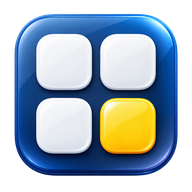
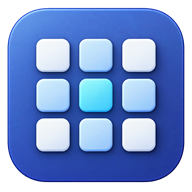
更新[启动台]、[任务管理器]、[事件与告警中心]图标。 macOS 启动台展开时隐藏下方桌面，关闭后恢复；名称增加阴影，Dock 保持可操作。

diff --git a/Client/RelaxKonOS.Client/Views/Shell/LauncherDesktopShells.cs b/Client/RelaxKonOS.Client/Views/Shell/LauncherDesktopShells.cs
@@ -713,7 +713,11 @@ public sealed class MacosLikeDesktopShell() : LauncherDesktopShellBase(BuiltInSh
     protected override void BuildLayout(DesktopShellViewModel vm)
     {
         var layout = new MacosShellLayoutView();
-        layout.Compose(MacosMenuBar(vm), Desktop(vm), MacosDock(vm), MacosLaunchpad(vm));
+        var desktop = Desktop(vm);
+        // Launchpad replaces the desktop presentation without closing its windows or changing
+        // the user's icon visibility preference. Hiding the surface also prevents click-through.
+        desktop.Bind(Visual.IsVisibleProperty, new Binding("!" + nameof(vm.IsStartOpen)));
+        layout.Compose(MacosMenuBar(vm), desktop, MacosDock(vm), MacosLaunchpad(vm));
         _root.Children.Add(layout);
     }
 
@@ -821,6 +825,7 @@ public sealed class MacosLikeDesktopShell() : LauncherDesktopShellBase(BuiltInSh
         ThemeResources.Bind(overlay, Border.BackgroundProperty, "OverlayScrimBrush");
         overlay.Bind(Visual.IsVisibleProperty, new Binding(nameof(vm.IsStartOpen)));
         overlay.PointerPressed += (_, _) => vm.CloseStartCommand.Execute(null);
+        overlay.KeyBindings.Add(new KeyBinding { Gesture = KeyGesture.Parse("Escape"), Command = vm.CloseStartCommand });
         var layout = new Grid { RowDefinitions = new RowDefinitions("Auto,*"), RowSpacing = 26, Margin = new Thickness(80, 58, 80, 78) };
         var search = new TextBox
         {
@@ -871,7 +876,7 @@ public sealed class MacosLikeDesktopShell() : LauncherDesktopShellBase(BuiltInSh
             TextWrapping = TextWrapping.Wrap,
             HorizontalAlignment = HorizontalAlignment.Center,
         };
-        ThemeResources.Bind(name, TextBlock.ForegroundProperty, "TextPrimaryBrush");
+        name.Classes.Add("desktop-label");
         Grid.SetRow(name, 1);
         content.Children.Add(name);
         var button = new Button

diff --git a/Client/RelaxKonOS.Client/Assets/IconSources/2026-10-02/README.md b/Client/RelaxKonOS.Client/Assets/IconSources/2026-10-02/README.md
@@ -1,0 +1,29 @@
+# Desktop icon refresh
+
+Generated with the built-in `image_gen` tool on 2026-10-02 using `Assets/AppIcons/settings.png` as a style reference. Each icon was generated separately with a transparent background and resized to the existing 192 × 192 RGBA asset size; no runtime image generation or network access is needed.
+
+Final desktop assets:
+
+- `Assets/AppIcons/launchpad.png`: blue tile with a nine-cell launcher grid.
+- `Assets/AppIcons/taskmanager.png`: navy tile with a monitor and cyan performance waveform.
+- `Assets/AppIcons/event-alerts.png`: amber tile with a bell and alert mark.
+
+Android resources are derived from the desktop assets with `tools/Mobile/sync-desktop-icons.py`.
+
+## Prompt set
+
+Every subject below was appended to this shared prompt:
+
+> Use case: stylized-concept. Asset type: production desktop application icon, one square PNG with a genuinely transparent background. Match the provided settings icon only as a STYLE REFERENCE: rounded square tile, restrained soft 3D bevel, clean centered recognizable pictogram, top-left light, smooth subtle gradients, polished modern desktop icon, legible at 24/32/48px. Tile occupies 90% of square, centered, equal transparent margins. Do not draw other tiles, captions, letters, watermarks, checkerboard, outer background, huge glow or perspective tilt. Generate a NEW icon; do not preserve the gear subject.
+
+Launchpad:
+
+> Subject: Launchpad app launcher. Deep indigo to blue rounded square tile, nine small raised rounded squares in a precise 3 by 3 grid, ivory and pale sky blue squares with one soft cyan accent. Simple elegant launcher symbol, consistent spacing and no tiny detail.
+
+Task Manager:
+
+> Subject: Task Manager system performance monitor. Deep navy rounded square tile, centered light silver monitor frame with a dark blue display containing a vivid cyan performance waveform and three simple short bars. Distinct readable silhouette, minimal fine detail, attractive at small size.
+
+Event & Alert Center:
+
+> Subject: Event and Alert Center. Warm amber to orange rounded square tile, centered large ivory bell with a small dark amber exclamation cut into the bell and a small clapper. Calm clear notification/operations alert symbol, recognizable without a bare warning triangle, no red badge or text.

diff --git a/docs/desktop/RelaxKonOS.ShellLauncher.Goal.md b/docs/desktop/RelaxKonOS.ShellLauncher.Goal.md
@@ -224,6 +224,8 @@ public interface IShellActions
 | macOS-like | 稀疏桌面图标、Launchpad 风格应用概览 | 底部居中 Dock：运行指示、多窗口弹出预览 | Dock 不自动隐藏时从底部扣除 |
 | Ubuntu-like | GNOME 风格背景和应用概览 | 顶部状态栏 + 左侧 Dock（可自动隐藏） | 顶部栏和可见 Dock 之外 |
 
+macOS-like 启动台展开时暂时隐藏普通桌面 surface（图标与应用窗口），关闭后恢复，不改变图标显示偏好、窗口状态或运行中的应用。壁纸继续作为启动台背景，应用名称复用 `TextBlock.desktop-label` 的浅色文字与深色阴影，避免半透明遮罩下的内容重叠与低对比度。Dock 位于启动台之上并保持可操作；点击启动台空白处或按 Escape 关闭。
+
 首期允许四个 Shell 复用 `DesktopWorkspaceState`、通用图标控件、文件上下文菜单的行动模型及统一的窗口缩略图数据；不得复用同一整棵 `DesktopShellView`。视觉“像某系统”只使用通用交互范式与自有资源，不复制厂商图标、壁纸、商标或系统资源。
 
 Shell 必须处理的最小交互：
